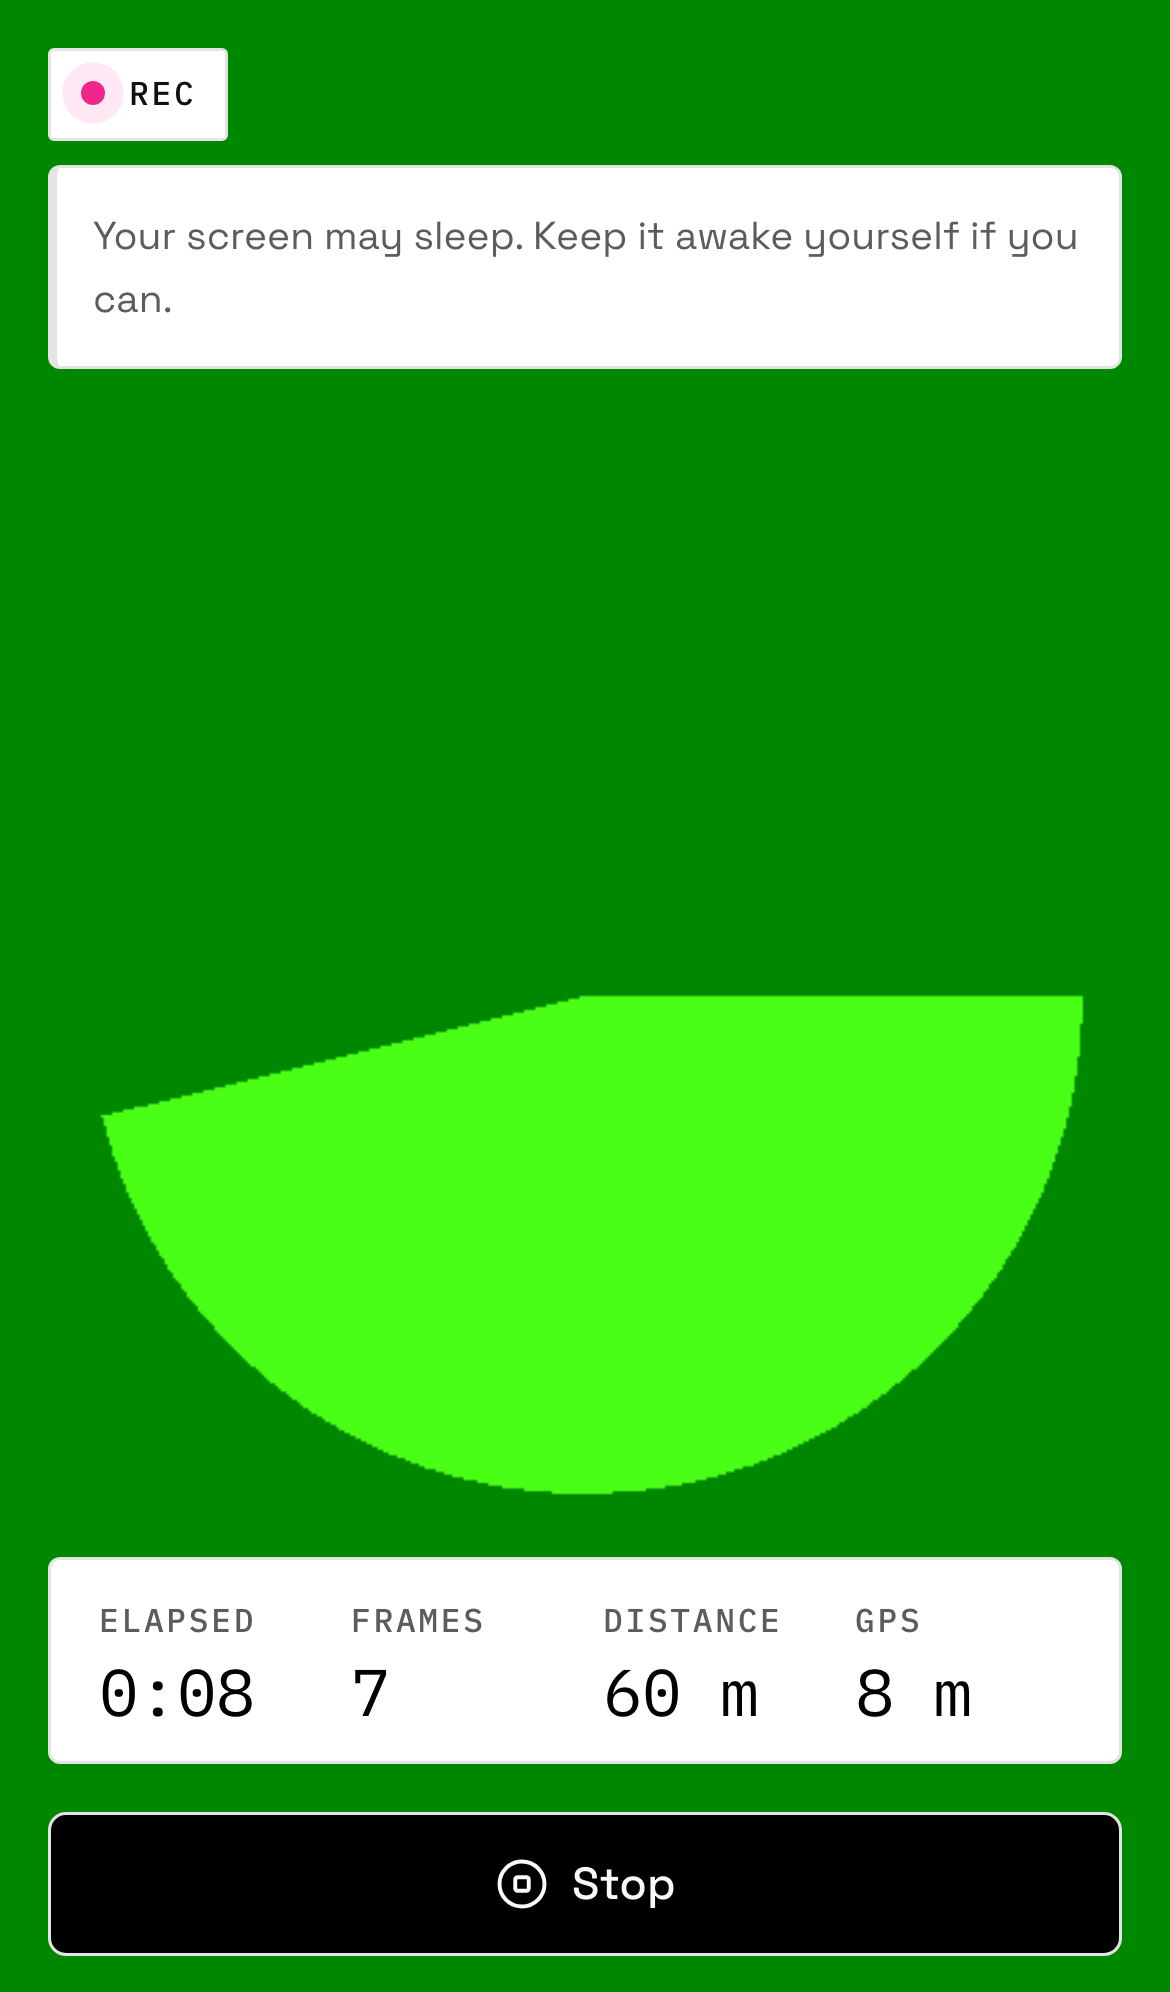
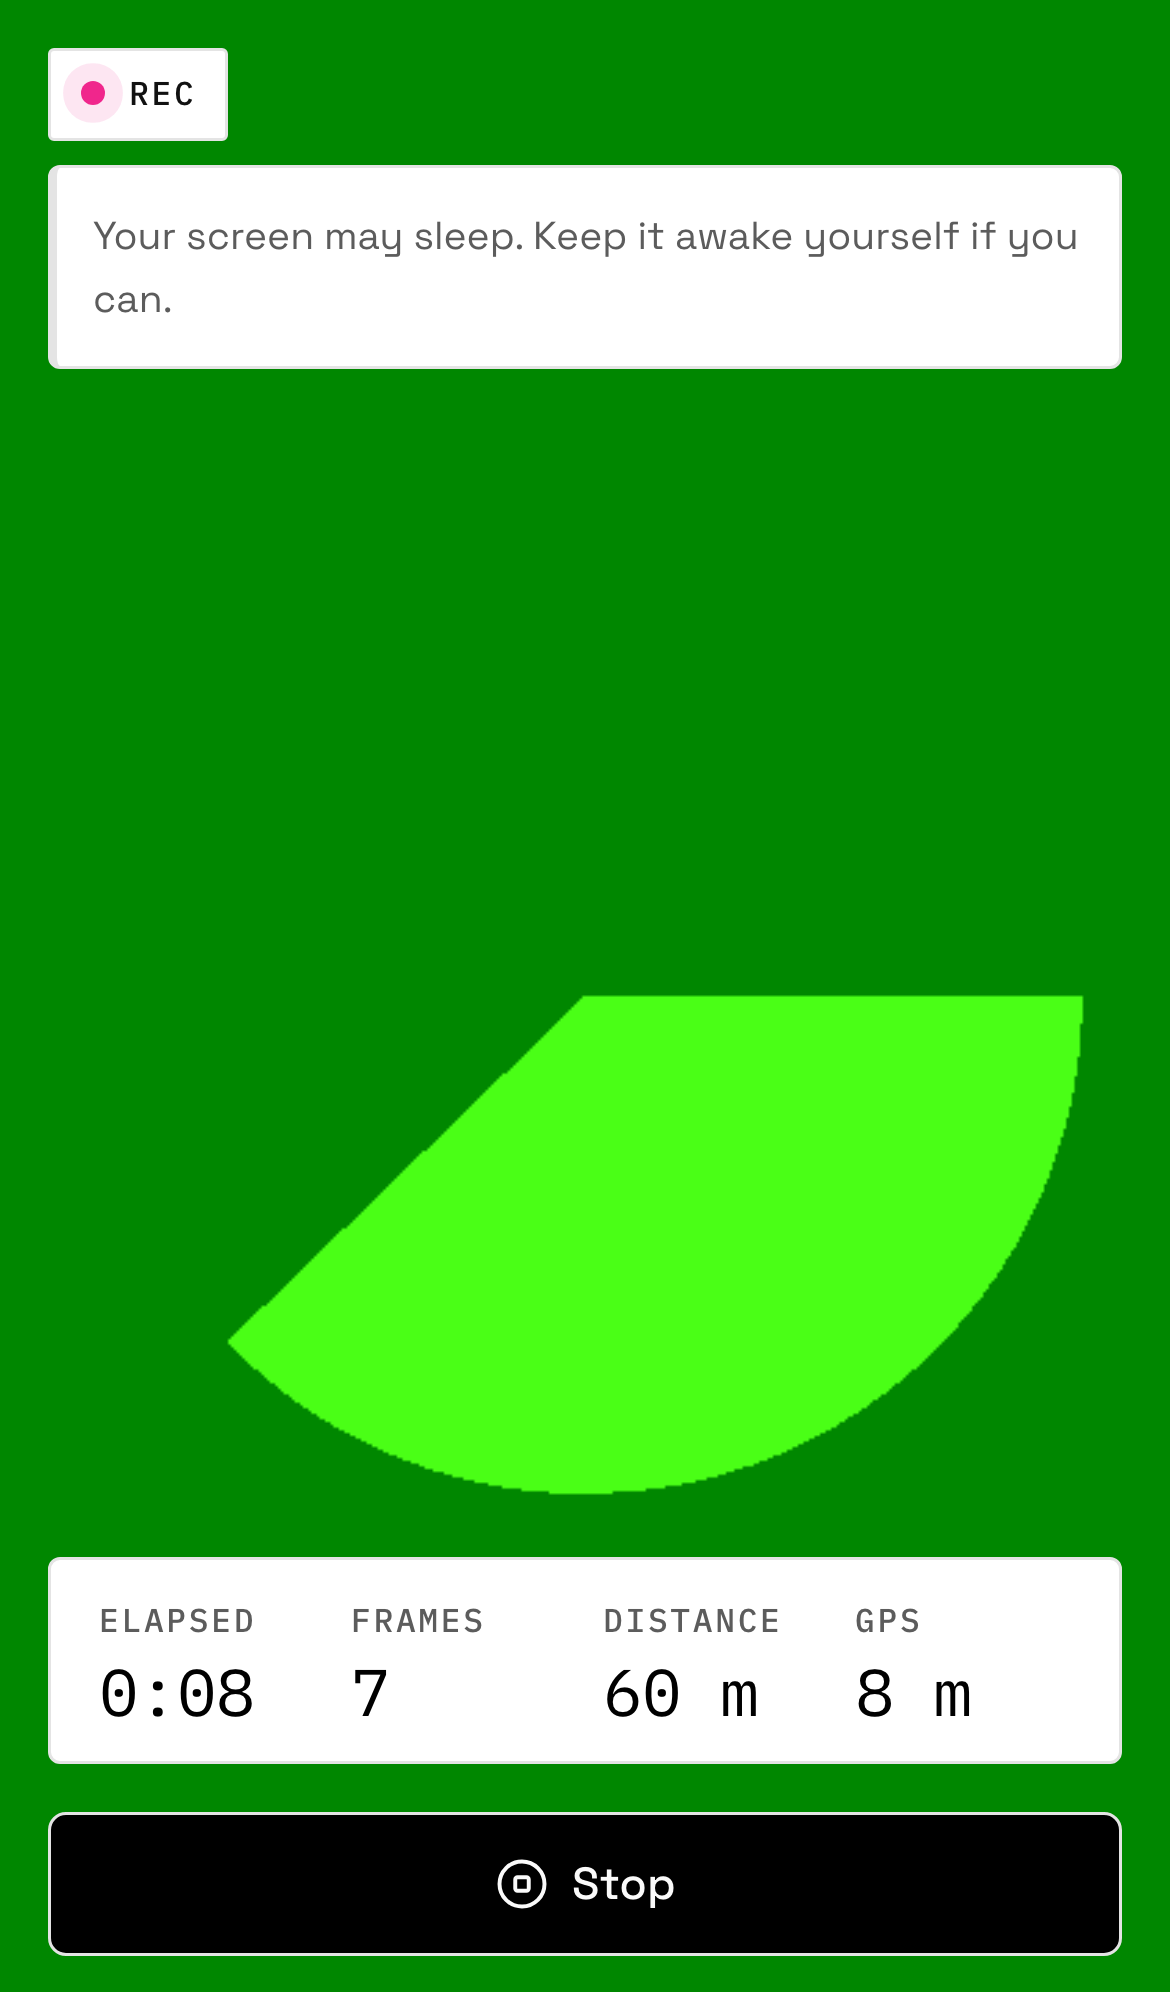
fix(u27): seven recorder bugs found by adversarial review
None of these were visible to tsc, lint, build, or the green end-to-end drive.
They live on the paths a happy-path walk never takes.

A refused camera still entered "recording". That unmounts the start screen,
which is the only place the camera error renders, so a walker who denied the
prompt got a black preview, a pulsing REC dot, a running clock and a frame
count stuck at zero, with nothing saying why. useCamera.start now returns the
state it settled on (reading `cameraState` there would read the previous
render's value) and start() refuses to open a session without a stream.

Both auto-stop paths leaked. Hitting the 400-frame cap is the NORMAL end of a
long walk, and it left the camera live through review, upload and done, left the
review map blank while the stats plate claimed hundreds of fixes, and left the
manifest saying phase:"recording" with an unterminated segment. All three were
paths that skipped what stop() already did, so they now share one
finishSession() close-out.

The 30-minute cap could never fire. It was only checked after a frame was KEPT,
and it exists precisely for the walk where frames are NOT being kept: a phone in
a pocket drops every frame, never reaches the check, and records forever holding
the wake lock. Now enforced on the 1 Hz tick.

QuotaExceededError was masked by its own cleanup. `finally { close() }` on an
errored stream rejects with a TypeError, and a throw from finally replaces the
[…]

Changed region(s): [[0.0923, 0.498, 0.4923, 0.6847]]

diff --git a/components/capture/hooks/useRecorder.ts b/components/capture/hooks/useRecorder.ts
@@ -171,7 +171,7 @@ export function useRecorder() {
     phaseRef.current = phase;
   }, [phase]);
 
-  const camera = useCamera();
+  const { state: cameraState, start: startCamera, stop: stopCamera } = useCamera();
   const isRecording = phase === "recording";
   const wakeLock = useWakeLock(isRecording || phase === "paused");
 
@@ -225,14 +225,62 @@ export function useRecorder() {
     });
   }, []);
 
+  /**
+   * The one way a walk ends.
+   *
+   * Every close-out path goes through here (the stop button, the frame cap, the
+   * duration cap, a full disk), because each of them has to do the same four
+   * things and it is the paths that skipped them that went wrong: close the open
+   * segment and stamp the end, snapshot the track for the review map, RELEASE THE
+   * CAMERA, and persist. A cap that ended the walk but left the camera live and
+   * the manifest saying `phase: "recording"` is exactly the bug this collapses.
+   */
+  const finishSession = useCallback(() => {
+    const manifest = manifestRef.current;
+    if (manifest) {
+      const at = Date.now();
+      const closed = closeSegment(manifest, at);
+      closed.endedAt = at;
+      closed.phase = "ready_to_upload";
+      manifestRef.current = closed;
+      setReviewTrack([...closed.track]);
+      void storeRef.current?.putManifest(closed).catch(() => undefined);
+    }
+    stopCamera();
+    publishStats();
+    setPhase("review");
+  }, [publishStats, stopCamera]);
+
   // The elapsed clock and the drop tallies would otherwise only move when a
   // frame is kept, which on a stationary phone is never. A 1 Hz tick keeps the
   // HUD honest without re-rendering per video frame.
+  //
+  // The duration cap is enforced here rather than in the frame pipeline for the
+  // same reason. It exists precisely for the walk where frames are NOT being
+  // kept, so checking it only after a keep means a phone in a pocket drops every
+  // frame, never reaches the check, and records forever with the wake lock held.
   useEffect(() => {
     if (phase !== "recording") return;
-    const id = window.setInterval(publishStats, 1_000);
+
+    const tick = () => {
+      publishStats();
+      const manifest = manifestRef.current;
+      if (!manifest) return;
+      const cap = sessionCapReached({
+        frameCount: manifest.frames.length,
+        startedAt: manifest.startedAt,
+        now: Date.now(),
+        maxFrames: CAPTURE_LIMITS.maxFrames,
+      });
+      if (cap) {
+        setCapReason(cap);
+        finishSession();
+      }
+    };
+
+    const id = window.setInterval(tick, 1_000);
     return () => window.clearInterval(id);
-  }, [phase, publishStats]);
+  }, [phase, publishStats, finishSession]);
 
   /* ---------------------------------------------------------------- *
    * The frame pipeline
@@ -321,10 +369,14 @@ export function useRecorder() {
           // Out of room. Stop cleanly with what we have rather than spinning on
           // failing writes; the walk so far is still uploadable.
           setStorageFull(true);
-          setPhase("review");
+          finishSession();
           return;
         }
-        throw error;
+        // Anything else: lose the frame, say so in the ledger, keep walking. A
+        // single bad write is not a reason to end someone's walk, but it is a
+        // reason the review screen must be able to name.
+        tallyDrop("write_failed");
+        return;
       }
 
       // Only recorded once the bytes are safely down. If the write failed we
@@ -346,10 +398,10 @@ export function useRecorder() {
       });
       if (cap) {
         setCapReason(cap);
-        setPhase("review");
+        finishSession();
       }
     },
-    [encodeFrame, publishStats, tallyDrop],
+    [encodeFrame, finishSession, publishStats, tallyDrop],
   );
 
   const handleFrame = useCallback(
@@ -377,9 +429,14 @@ export function useRecorder() {
       }
 
       encodingRef.current = true;
-      void keepFrame(video, now, fix as TrackPoint, verdict.blurScore).finally(() => {
-        encodingRef.current = false;
-      });
+      // keepFrame owns its own failures, but an unforeseen throw here would be an
+      // unhandled rejection once per frame, which in dev buries the HUD under the
+      // error overlay and in prod is silent. Terminate the chain explicitly.
+      void keepFrame(video, now, fix as TrackPoint, verdict.blurScore)
+        .catch(() => tallyDrop("write_failed"))
+        .finally(() => {
+          encodingRef.current = false;
+        });
     },
     [grayFromVideo, keepFrame, tallyDrop],
   );
@@ -399,6 +456,10 @@ export function useRecorder() {
       // Flush immediately. A tab that is hidden may never get another chance to
       // run our code before iOS discards it.
       void storeRef.current?.putManifest(manifestRef.current);
+      // Actually release the camera, because that is what we tell the walker has
+      // happened. Holding the track while backgrounded leaves the OS recording
+      // indicator lit over another app, which would make the copy a lie.
+      stopCamera();
       setPhase("paused");
     };
 
@@ -415,7 +476,7 @@ export function useRecorder() {
       document.removeEventListener("visibilitychange", onVisibility);
       window.removeEventListener("pagehide", pause);
     };
-  }, [phase]);
+  }, [phase, stopCamera]);
 
   /* ---------------------------------------------------------------- *
    * Commands
@@ -424,11 +485,13 @@ export function useRecorder() {
     const store = storeRef.current;
     if (!store) return;
 
-    // Failure surfaces through camera.state, which the start screen reads; there
-    // is no stream to assert on here because the component attaches it on the
-    // next render. The frame clock simply yields nothing until the element has
-    // data, so starting the session optimistically costs nothing.
-    await camera.start();
+    // A refused camera must NOT become a session. Entering "recording" anyway
+    // unmounts the start screen, which is the only place the camera error is
+    // rendered, leaving the walker on a black preview with a live REC dot and a
+    // frame counter pinned at zero. So gate on the settled state the call
+    // returns, not on `cameraState`, which is still last render's value here.
+    const result = await startCamera();
+    if (result.status !== "ready") return;
 
     const now = Date.now();
     const manifest = createManifest(crypto.randomUUID(), now);
@@ -442,12 +505,19 @@ export function useRecorder() {
     setUploadFailure(null);
     await store.putManifest(manifest);
     setPhase("recording");
-  }, [camera]);
+  }, [startCamera]);
 
   /** Resume after backgrounding, on a NEW sub-segment. */
-  const resume = useCallback(() => {
+  const resume = useCallback(async () => {
     const manifest = manifestRef.current;
     if (!manifest) return;
+    // The camera was released on pause, so re-acquire it. This runs from the
+    // walker's tap, which is the gesture iOS requires.
+    const result = await startCamera();
+    if (result.status !== "ready") {
+      finishSession();
+      return;
+    }
     manifestRef.current = openSegment(manifest, Date.now());
     // The gate's memory of where we were is stale by however long the phone was
     // in a pocket. Clearing it lets the first frame back through immediately
@@ -455,22 +525,9 @@ export function useRecorder() {
     gateRef.current = { lastKeptT: null, lastKeptPosition: null, prevGray: null };
     void storeRef.current?.putManifest(manifestRef.current);
     setPhase("recording");
-  }, []);
+  }, [finishSession, startCamera]);
 
-  const stop = useCallback(() => {
-    const manifest = manifestRef.current;
-    if (manifest) {
-      const closed = closeSegment(manifest, Date.now());
-      closed.endedAt = Date.now();
-      closed.phase = "ready_to_upload";
-      manifestRef.current = closed;
-      setReviewTrack([...closed.track]);
-      void storeRef.current?.putManifest(closed);
-    }
-    camera.stop();
-    publishStats();
-    setPhase("review");
-  }, [camera, publishStats]);
+  const stop = finishSession;
 
   const discard = useCallback(async () => {
     const manifest = manifestRef.current;
@@ -565,7 +622,7 @@ export function useRecorder() {
     uploadFailure,
     sessionId,
     accuracyWarning,
-    camera: camera.state,
+    camera: cameraState,
     geo: geo.state,
     wakeLock,
     unsupportedReason: unsupportedReason(),

diff --git a/components/capture/hooks/useCamera.ts b/components/capture/hooks/useCamera.ts
@@ -81,15 +81,23 @@ export function useCamera() {
     setState({ status: "idle" });
   }, []);
 
-  const start = useCallback(async () => {
-    if (!isSecureCameraContext()) {
-      setState({ status: "error", reason: "insecure_context" });
-      return;
-    }
-    if (!isCameraSupported()) {
-      setState({ status: "error", reason: "unsupported" });
-      return;
-    }
+  /**
+   * Returns the state it settled on, as well as storing it.
+   *
+   * The caller needs the answer NOW, not on the next render: `useRecorder.start`
+   * has to decide whether a session may begin at all, and reading `state` there
+   * would read the previous render's value and start recording from a camera
+   * that was just refused.
+   */
+  const start = useCallback(async (): Promise<CameraState> => {
+    const fail = (reason: CameraErrorReason): CameraState => {
+      const next: CameraState = { status: "error", reason };
+      setState(next);
+      return next;
+    };
+
+    if (!isSecureCameraContext()) return fail("insecure_context");
+    if (!isCameraSupported()) return fail("unsupported");
 
     setState({ status: "starting" });
 
@@ -110,12 +118,10 @@ export function useCamera() {
             audio: false,
           });
         } catch (retryError) {
-          setState({ status: "error", reason: classify(retryError) });
-          return;
+          return fail(classify(retryError));
         }
       } else {
-        setState({ status: "error", reason: classify(error) });
-        return;
+        return fail(classify(error));
       }
     }
 
@@ -125,12 +131,14 @@ export function useCamera() {
     // a promise, and every frame's recorded width/height must be what the sensor
     // gave us rather than what we asked for.
     const settings = stream.getVideoTracks()[0]?.getSettings();
-    setState({
+    const next: CameraState = {
       status: "ready",
       stream,
       width: settings?.width ?? 0,
       height: settings?.height ?? 0,
-    });
+    };
+    setState(next);
+    return next;
   }, []);
 
   // Releasing the camera on unmount is not politeness, it is the difference

diff --git a/components/capture/engine/opfs.ts b/components/capture/engine/opfs.ts
@@ -88,8 +88,19 @@ class OpfsStore implements CaptureStore {
     const stream = await handle.createWritable();
     try {
       await stream.write(data);
-    } finally {
       await stream.close();
+    } catch (error) {
+      // NOT a `finally { close() }`. Once a write has errored the stream is
+      // errored too, and closing it rejects with its own TypeError, which would
+      // replace the pending exception and throw away the reason. That reason is
+      // usually QuotaExceededError, i.e. exactly the one the recorder branches
+      // on to stop the walk cleanly. Abort instead, and rethrow the original.
+      try {
+        await stream.abort();
+      } catch {
+        // Already errored or already closing. The original throw is what matters.
+      }
+      throw error;
     }
   }
 
@@ -147,13 +158,21 @@ class OpfsStore implements CaptureStore {
     return frames;
   }
 
-  async discard(localId: string): Promise<void> {
-    const captures = await this.root.getDirectoryHandle(ROOT_DIR, { create: true });
-    try {
-      await captures.removeEntry(localId, { recursive: true });
-    } catch {
-      // Already gone is the desired end state.
-    }
+  /**
+   * Queued like every other write. Deleting out of band would race a pending
+   * `putManifest`, whose `create: true` would resurrect the directory with a
+   * manifest listing frames whose bytes are gone. That resurrected walk would
+   * then be offered back on the next visit and recover into nothing.
+   */
+  discard(localId: string): Promise<void> {
+    return this.enqueue(async () => {
+      const captures = await this.root.getDirectoryHandle(ROOT_DIR, { create: true });
+      try {
+        await captures.removeEntry(localId, { recursive: true });
+      } catch {
+        // Already gone is the desired end state.
+      }
+    });
   }
 }
 

diff --git a/components/capture/engine/gating.ts b/components/capture/engine/gating.ts
@@ -25,10 +25,11 @@ import { CAPTURE_TUNING, type CaptureTuning } from "@/components/capture/engine/
  * - `duplicate` — visually identical to the previous frame.
  * - `blurry` — too soft to score.
  * - `oversize` — encoded past the storage contract's per-frame byte ceiling.
+ * - `write_failed` — could not be written to storage.
  *
- * `oversize` is the one reason `evaluateFrame` never returns: it is only knowable
- * after JPEG encoding, so the recorder tallies it. Drop reasons are a session
- * ledger, not solely gate output.
+ * The last two are never returned by `evaluateFrame`: they are only knowable
+ * after encoding and after touching the disk, so the recorder tallies them.
+ * Drop reasons are a session ledger, not solely gate output.
  */
 export type DropReason =
   | "no_fix"
@@ -36,7 +37,8 @@ export type DropReason =
   | "displacement"
   | "duplicate"
   | "blurry"
-  | "oversize";
+  | "oversize"
+  | "write_failed";
 
 export const DROP_REASONS: readonly DropReason[] = [
   "no_fix",
@@ -45,12 +47,21 @@ export const DROP_REASONS: readonly DropReason[] = [
   "duplicate",
   "blurry",
   "oversize",
+  "write_failed",
 ] as const;
 
 export type DropCounts = Record<DropReason, number>;
 
 export function emptyDropCounts(): DropCounts {
-  return { no_fix: 0, cadence: 0, displacement: 0, duplicate: 0, blurry: 0, oversize: 0 };
+  return {
+    no_fix: 0,
+    cadence: 0,
+    displacement: 0,
+    duplicate: 0,
+    blurry: 0,
+    oversize: 0,
+    write_failed: 0,
+  };
 }
 
 /**

diff --git a/components/capture/LiveRecorder.tsx b/components/capture/LiveRecorder.tsx
@@ -120,7 +120,7 @@ export default function LiveRecorder() {
           durable={durable}
           paused={phase === "paused"}
           onStop={stop}
-          onResume={resume}
+          onResume={() => void resume()}
         />
       ) : null}
 